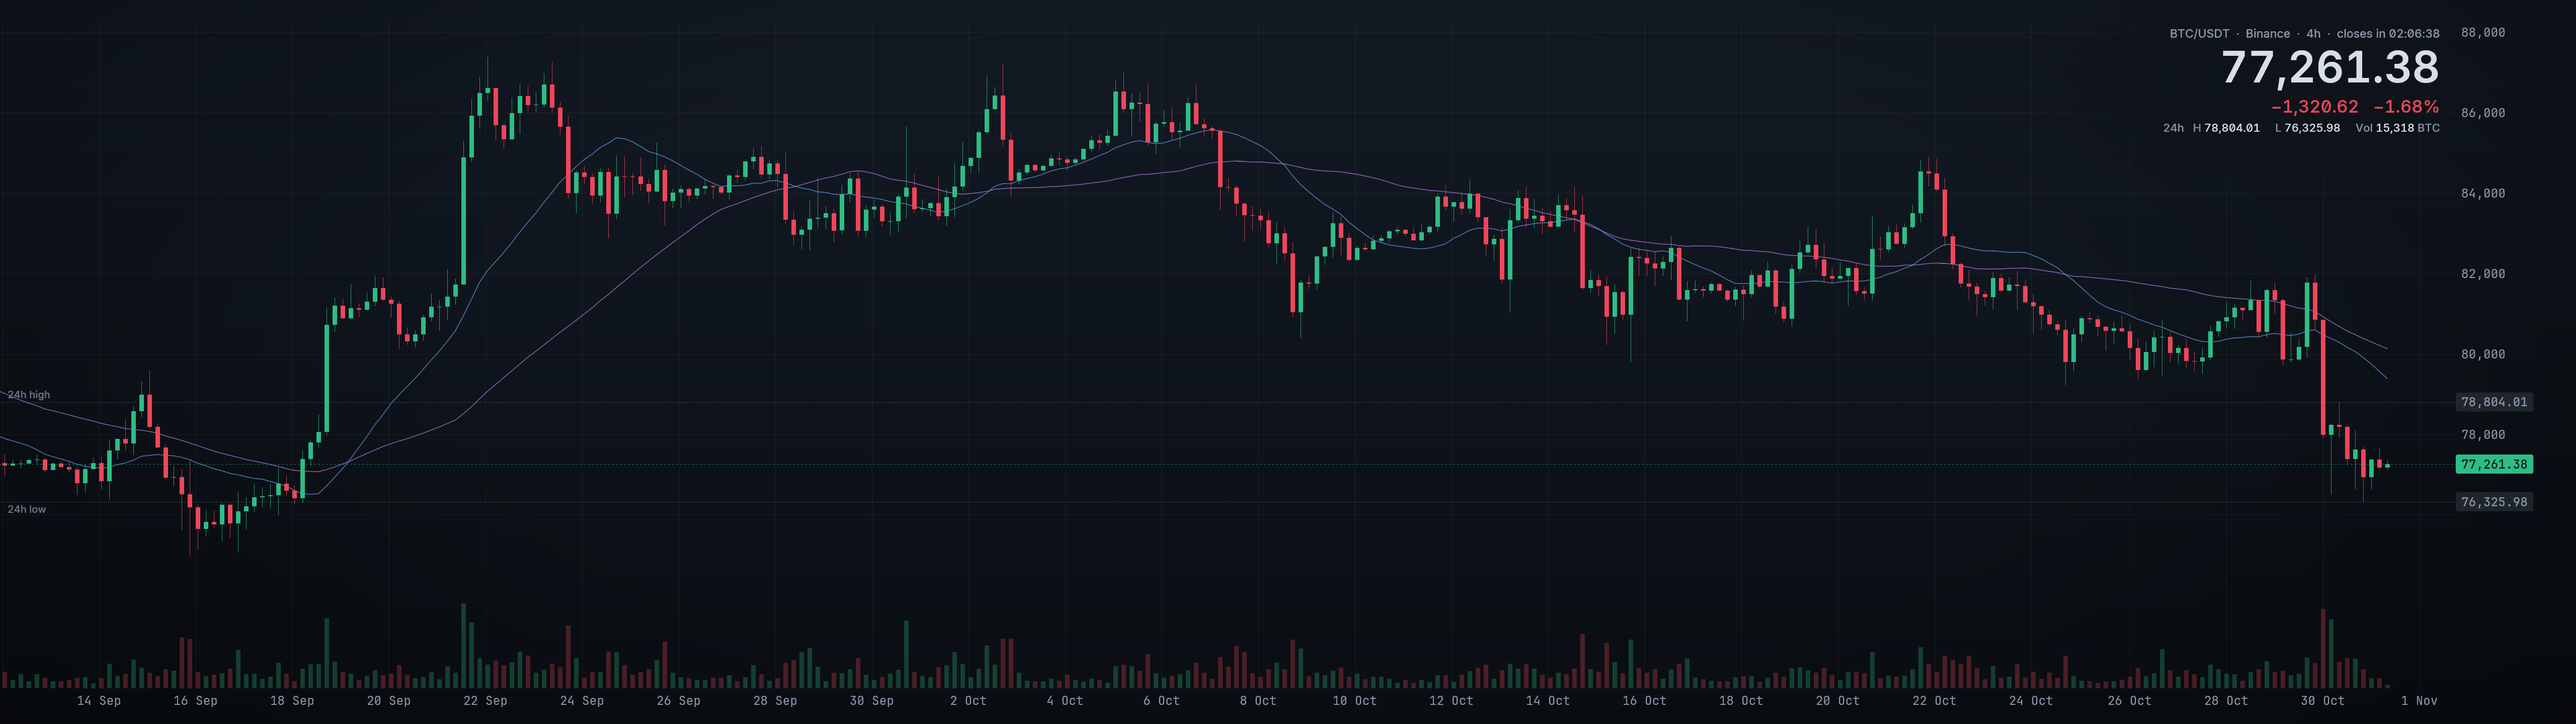
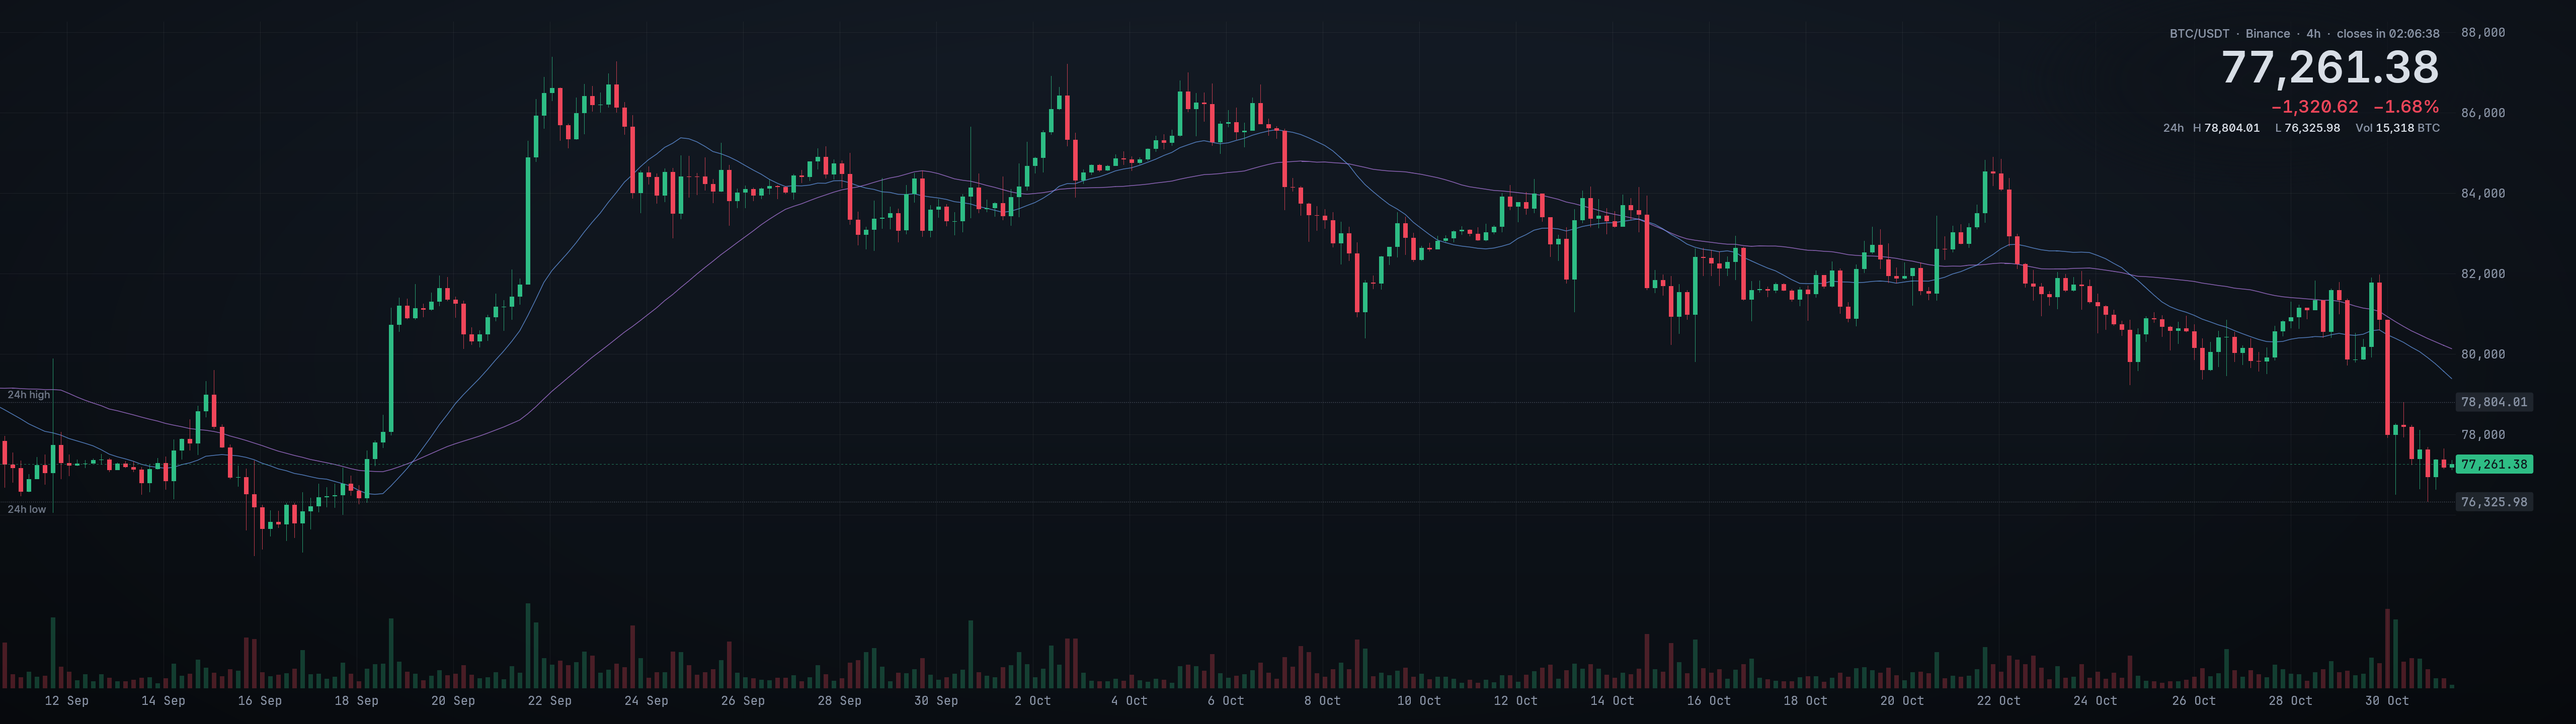
feat: candles and lines run up to the price axis, right offset 0 (#18)
D-30 updated as the owner worded it; goldens and docs/mockups regenerated from the recorded snapshot: desk 305 x 4h, TV 145 x 6h.

diff --git a/src/Chart.Core/Layout/LayoutEngine.cs b/src/Chart.Core/Layout/LayoutEngine.cs
@@ -7,7 +7,9 @@ public static class LayoutEngine
     // The price axis keeps 1.5 % of the width from the right screen edge (D-30).
     private const double AxisRightShare = 0.985;
     private const double BodyShare = 0.62;
-    private const int RightOffset = 8;
+
+    // The newest candle takes the last slot before the price axis: no empty gap (owner, D-30).
+    private const int RightOffset = 0;
 
     // Aspect ratio at or above which the headline goes top-right (32:9, 21:9); below it top-left at the left margin.
     private const double WideAspect = 2.2;

diff --git a/docs/decisions.md b/docs/decisions.md
@@ -17,4 +17,4 @@ Owner's decisions. Each entry: id, date, decision.
 - **D-13** (2026-10-31) The wallpaper shows the last 30 days of history; the candle interval is chosen per screen so that 30 days fit (4-hour candles on the 5120x1440 desk monitor, 6-hour on the 3840x2160 TV); replaces D-8.
 - **D-20** (2026-10-31) The content spans the full screen width: no safe area is reserved for desktop icons.
 - **D-29** (2026-10-31) The chart fills all drawable candle slots with older history beyond the 30 days (desk ≈ 48 days at 4h); the candle pitch is unchanged. On 16:9 the headline sits at the left margin.
-- **D-30** (2026-10-31) The chart's left edge runs off the left screen edge; on the right the candles run up to the price axis with the usual small offset of about 8 candles, and the price axis keeps a small margin from the right screen edge.
+- **D-30** (2026-10-31) The chart's left edge runs off the left screen edge; on the right the candles and lines run up to the price axis (no empty gap), and the price axis keeps a small margin from the right screen edge.
